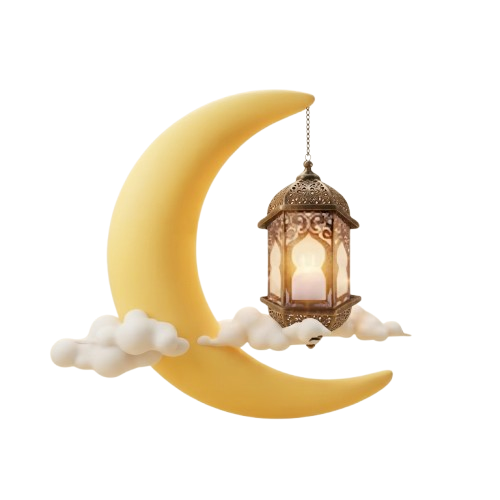
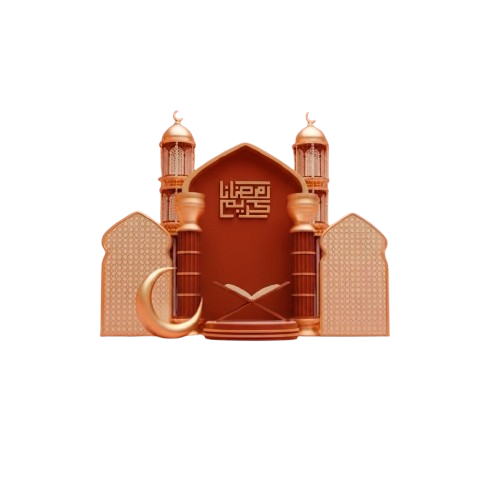
new update4

Changed region(s): [[0.09, 0.18, 0.81, 0.84]]

diff --git a/frontend/index.html b/frontend/index.html
@@ -2586,7 +2586,7 @@
       </a>
       <a class="menu-card" href="/makkah-live">
         <div class="icon-box">
-          <img src="assets/kaaba.png" alt="মক্কা-মদিনা">
+          <img src="assets/kaaba-madinah.png" alt="মক্কা-মদিনা">
         </div>
         <div class="lbl">মক্কা-মদিনা</div>
       </a>
@@ -2649,63 +2649,63 @@
       </a>
       <a class="menu-card" href="/islamic-name">
         <div class="icon-box">
-          <img src="/assets/history.png" alt="নাম">
+          <img src="assets/islamic-name.png" alt="নাম">
         </div>
         <div class="lbl">নাম</div>
       </a>
       <a class="menu-card" href="/asmaul-husna">
         <div class="icon-box">
-          <img src="/assets/quran_shikkha.png" alt="আসমাউল হুসনা">
+          <img src="assets/asmaul-husna.png" alt="আসমাউল হুসনা">
         </div>
         <div class="lbl">আসমাউল হুসনা</div>
       </a>
       <a class="menu-card" href="/bibaho">
         <div class="icon-box">
-          <img src="/assets/names.png" alt="বিবাহ">
+          <img src="assets/names.png" alt="বিবাহ">
         </div>
         <div class="lbl">বিবাহ</div>
       </a>
 
       <a class="menu-card" href="/kenakata">
         <div class="icon-box">
-          <img src="/assets/asmaul_husna.png" alt="কেনাকাটা">
+          <img src="assets/asmaul_husna.png" alt="কেনাকাটা">
         </div>
         <div class="lbl">কেনাকাটা</div>
       </a>
       <a class="menu-card" href="/chakri">
         <div class="icon-box">
-          <img src="/assets/masail.png" alt="চাকরি">
+          <img src="assets/masail.png" alt="চাকরি">
         </div>
         <div class="lbl">চাকরি</div>
       </a>
       <a class="menu-card" href="/important-days">
         <div class="icon-box">
-          <img src="/assets/amal_tracker.png" alt="গুরুত্বপূর্ণ দিন">
+          <img src="assets/amal_tracker.png" alt="গুরুত্বপূর্ণ দিন">
         </div>
         <div class="lbl">গুরুত্বপূর্ণ দিন</div>
       </a>
       <a class="menu-card" href="/map">
         <div class="icon-box">
-          <img src="/assets/mosque.png" alt="মানচিত্র">
+          <img src="assets/mosque.png" alt="মানচিত্র">
         </div>
         <div class="lbl">মানচিত্র</div>
       </a>
 
       <a class="menu-card" href="/about">
         <div class="icon-box">
-          <img src="/assets/quran_shikkha.png" alt="আমাদের সম্পর্কে">
+          <img src="assets/quran_shikkha.png" alt="আমাদের সম্পর্কে">
         </div>
         <div class="lbl">আমাদের সম্পর্কে</div>
       </a>
       <a class="menu-card" href="/support">
         <div class="icon-box">
-          <img src="/assets/namaz_time.png" alt="সাপোর্ট">
+          <img src="assets/namaz_time.png" alt="সাপোর্ট">
         </div>
         <div class="lbl">সাপোর্ট</div>
       </a>
       <a class="menu-card" href="/donation">
         <div class="icon-box">
-          <img src="/assets/namaz_shikkha.png" alt="ডোনেশন">
+          <img src="assets/namaz_shikkha.png" alt="ডোনেশন">
         </div>
         <div class="lbl">ডোনেশন</div>
       </a>
